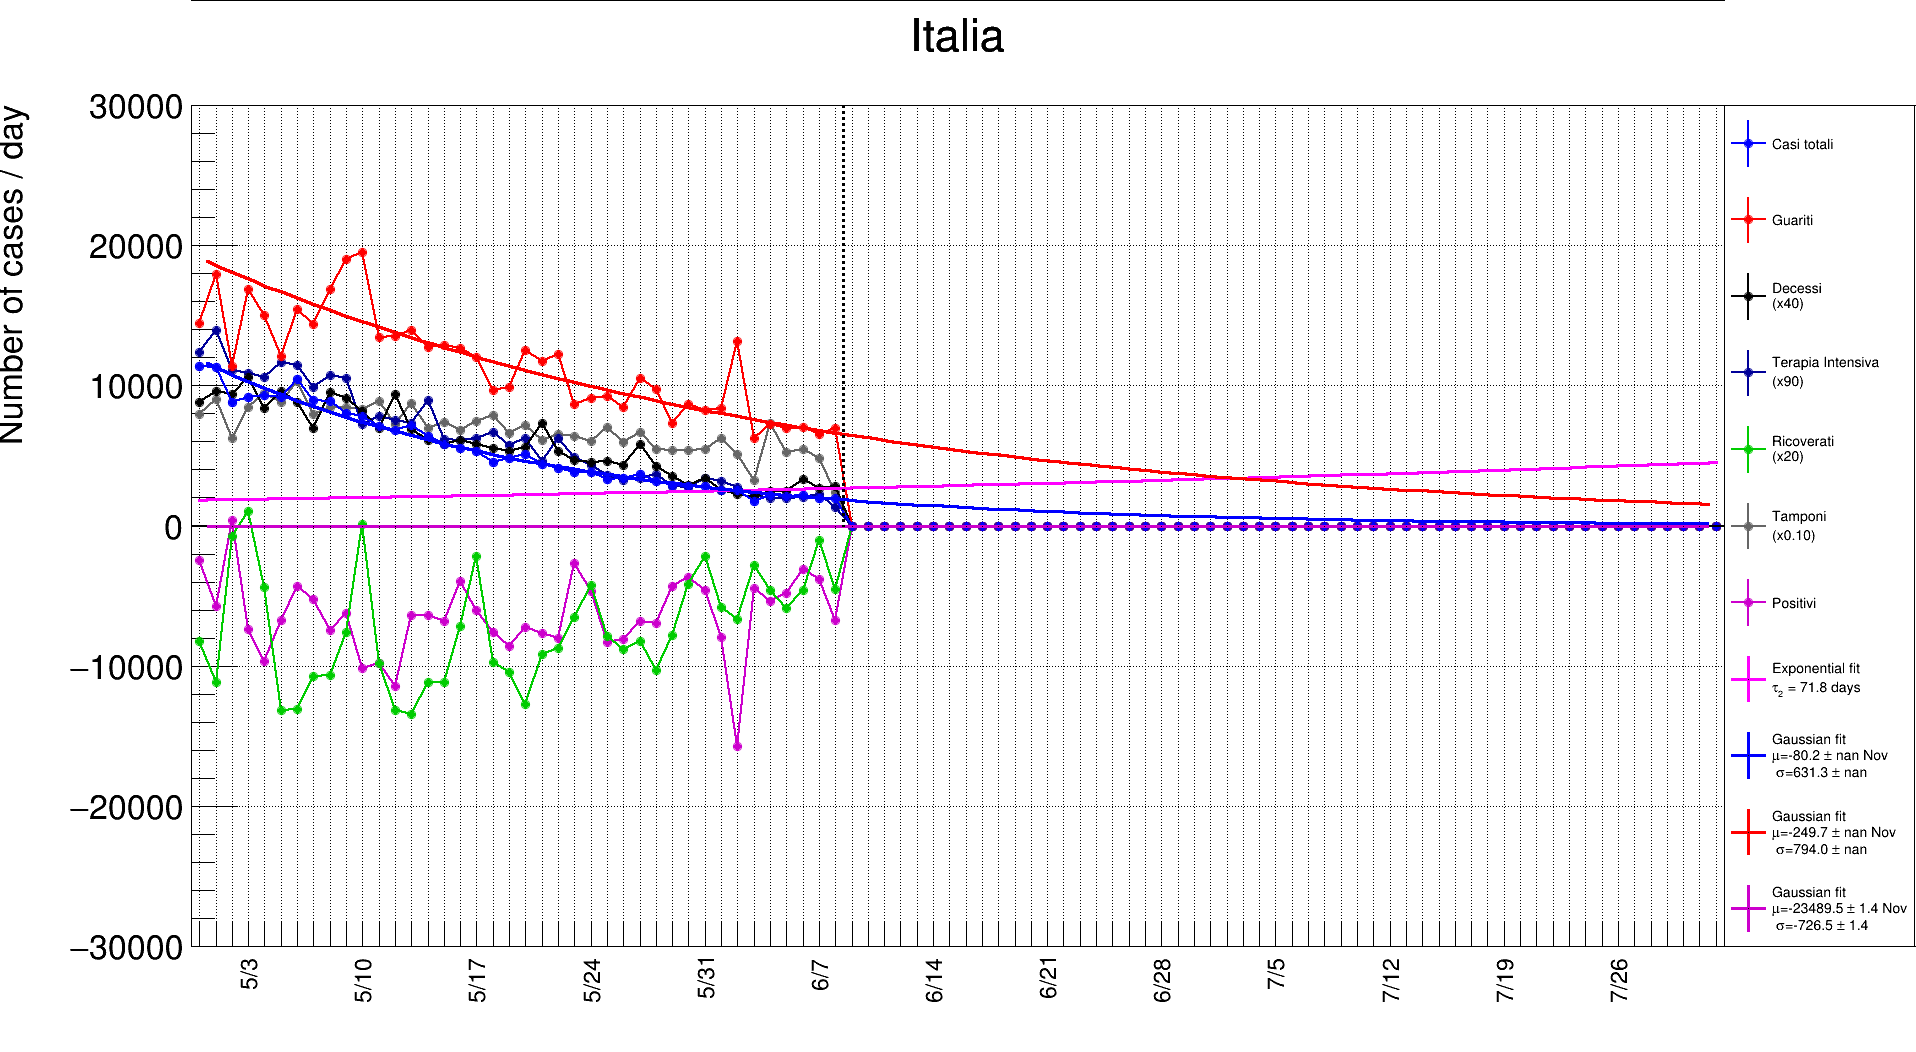
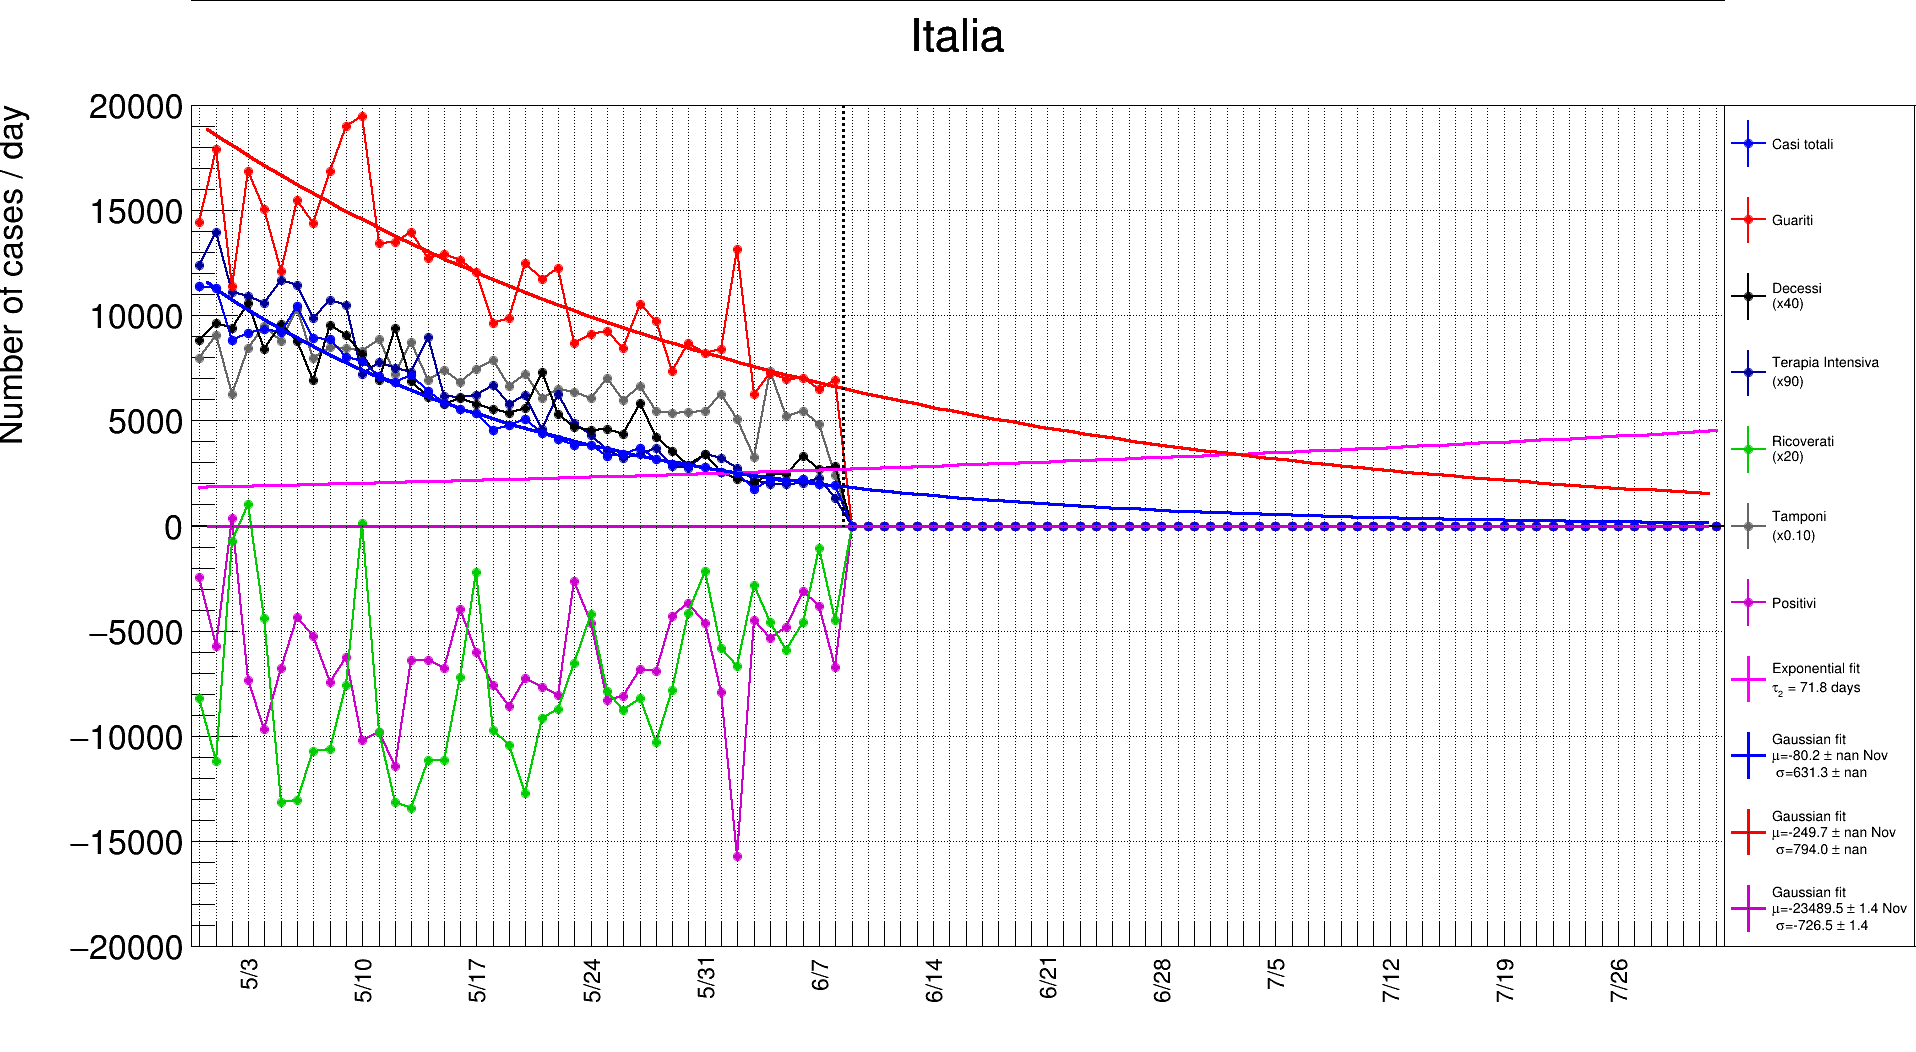
2021June8_fix

diff --git a/tools.py b/tools.py
@@ -4,6 +4,7 @@ import copy
 import array
 import datetime
 import pickle
+from math import floor, ceil
 
 rnd = ROOT.TRandom3()
 
@@ -1279,8 +1280,8 @@ def savePlotNew(histos, functions, fName, xpred, dates, canvas, ISTAT=False, log
     minim = 1E9
     for histo in histos:
         if not "prediction" in histo.GetName(): ## exclude prediction plot to define max/min
-            maxim = max(maxim, histo.GetMaximum())*1.01
-            minim = min(minim, histo.GetMinimum())-0.01*abs(min(minim, histo.GetMinimum()))
+            maxim = max(maxim, histo.GetMaximum())*1.001
+            minim = min(minim, histo.GetMinimum())-0.001*abs(min(minim, histo.GetMinimum()))
         maxim = min(maxim,1E7)
         if not "prediction" in histo.GetName():
             label = getLabel(histo.GetName())
@@ -1310,9 +1311,15 @@ def savePlotNew(histos, functions, fName, xpred, dates, canvas, ISTAT=False, log
         else:
             leg.AddEntry(function, function.label, "lp")
             
+    if not useLog:
+        print("maxim=",maxim)
+        print("minim=",minim)
     if maxim>0 and useLog: maxim = 10**int(ROOT.TMath.Log10(maxim)+1)
-    if maxim>0 and not useLog: maxim = (1.+int(maxim*100      /10**int(ROOT.TMath.Log10(maxim*100))     ))*10**int(ROOT.TMath.Log10(maxim*100))/100
-    if minim<0 and not useLog: minim = -int(abs(minim)/10**int(ROOT.TMath.Log10(abs(minim)))+2)*10**int(ROOT.TMath.Log10(abs(minim)))
+    if maxim>0 and not useLog: maxim = ceil(maxim/10**floor(ROOT.TMath.Log10(abs(maxim)))) * 10**floor(ROOT.TMath.Log10(abs(maxim)))
+    if minim<0 and not useLog: minim = floor(minim/10**floor(ROOT.TMath.Log10(abs(minim)))) * 10**floor(ROOT.TMath.Log10(abs(minim)))
+    if not useLog:
+        print("maxim2=",maxim)
+        print("minim2=",minim)
     
     line = ROOT.TLine(xpred+0.5,0,xpred+0.5,maxim)
     line.SetLineStyle(2)

diff --git a/scriptItaly.py b/scriptItaly.py
@@ -2,11 +2,11 @@
 #import csv
 #import copy
 from tools import colors, fillDataRegioni, fillDataISTATpickle, newCases, getRatio, makeHistos, fitErf, fitGauss, fitGaussAsymmetric, fitExp, extendDates, saveCSV, savePlotNew, getPrediction, getPredictionErf, getColumn, selectComuniDatesAgeGender, makeCompatible, fitLinear, fitTwoExp, fitGaussExp, applyScaleFactors, useLog, positiveHisto, fitTwoGaussDiff, fitGaussExp, getScaled
-
+from math import floor, ceil
 
 placesTest = []
 #placesTest = ["Italia","LaSpezia"]
-#placesTest = ["Italia"]
+placesTest = ["Italia"]
 #placesTest = ["Liguria"]
 #placesTest = ["Umbria"]
 #placesTest = ["Basilicata"]
